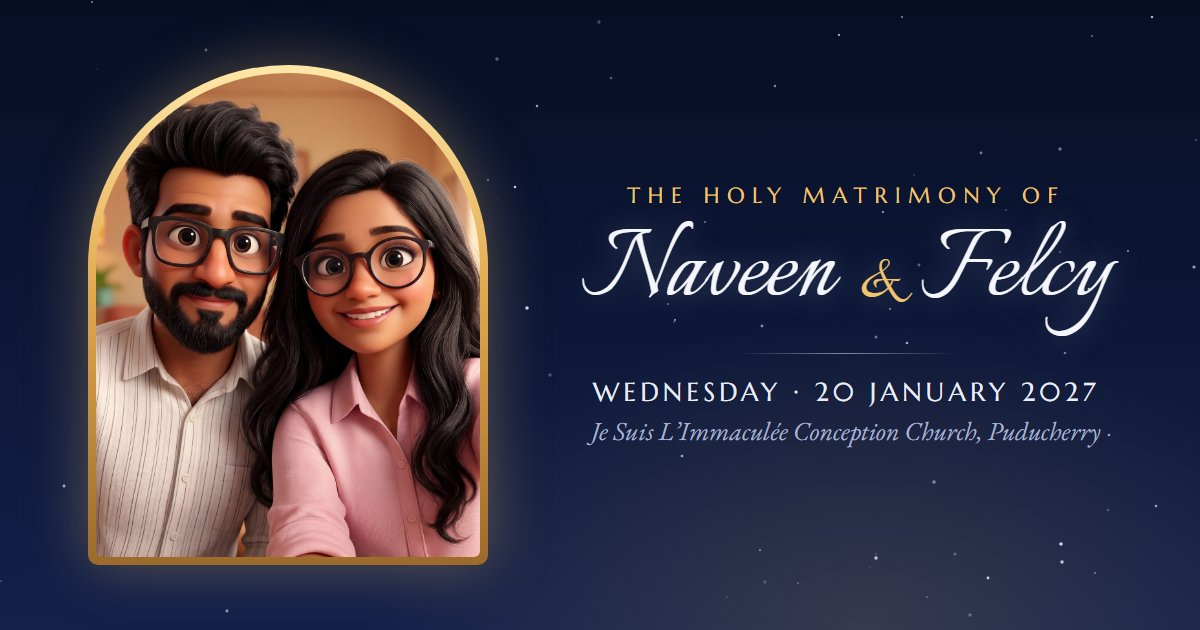
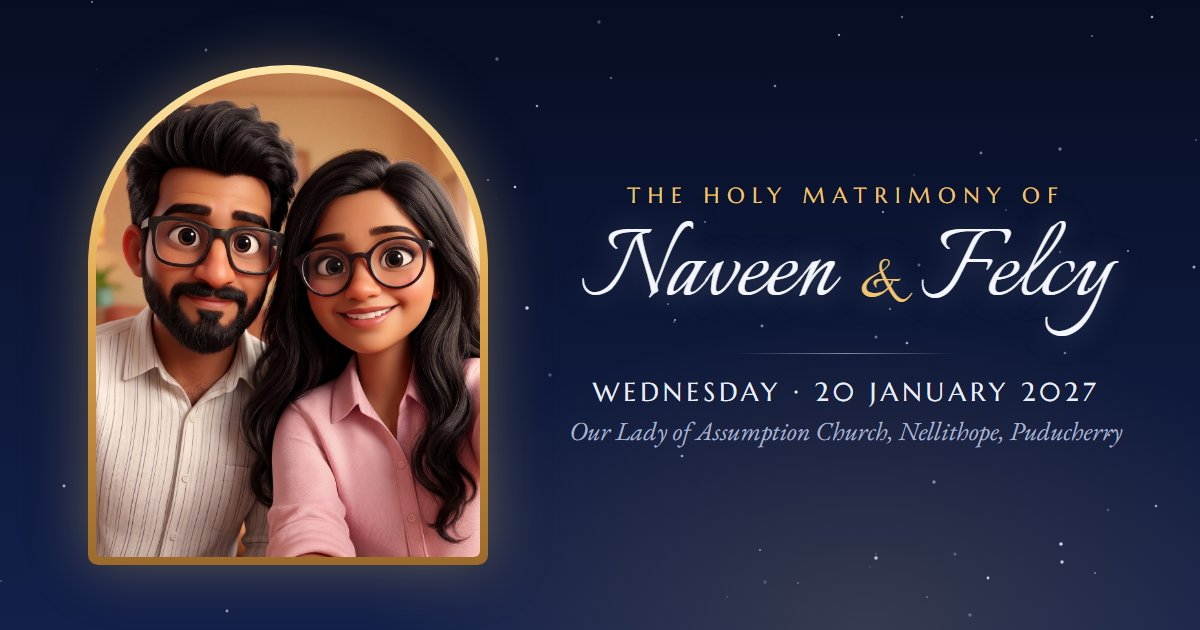
Spell out Saint in groom's family names; church is Our Lady of Assumption Church

Changed region(s): [[0.4625, 0.6635, 0.925, 0.7238]]

diff --git a/index.html b/index.html
@@ -5,12 +5,12 @@
 <meta name="viewport" content="width=device-width, initial-scale=1, viewport-fit=cover">
 <meta name="robots" content="noindex">
 <title>Naveen &amp; Felcy · Holy Matrimony</title>
-<meta name="description" content="The wedding of St. Hubert Naveen Gerald and Felcy Agnes Mary, Wednesday 20 January 2027, Puducherry.">
+<meta name="description" content="The wedding of Saint Hubert Naveen Gerald and Felcy Agnes Mary, Wednesday 20 January 2027, Puducherry.">
 <meta property="og:type" content="website">
 <meta property="og:title" content="Naveen &amp; Felcy · Holy Matrimony">
-<meta property="og:description" content="Wednesday, 20 January 2027, 4:00 PM · Je Suis L’Immaculée Conception Church, Nellithope, Puducherry. Tap to open your invitation.">
+<meta property="og:description" content="Wednesday, 20 January 2027, 4:00 PM · Our Lady of Assumption Church, Nellithope, Puducherry. Tap to open your invitation.">
 <meta property="og:url" content="https://aldoe21.github.io/naveen-felcy/">
-<meta property="og:image" content="https://aldoe21.github.io/naveen-felcy/og-image.jpg">
+<meta property="og:image" content="https://aldoe21.github.io/naveen-felcy/og-image.jpg?v=2">
 <meta property="og:image:width" content="1200">
 <meta property="og:image:height" content="630">
 <meta name="twitter:card" content="summary_large_image">
@@ -65,7 +65,7 @@ body { font-size: clamp(17px, 1rem + .3vw, 20px); }
   <div id="caption">
     <p class="cap-eyebrow">The Holy Matrimony of</p>
     <p class="cap-names"><span data-k="groomShort">Naveen</span> &amp; <span data-k="brideShort">Felcy</span></p>
-    <p class="cap-place"><span data-k="churchName">Je Suis L’Immaculée Conception Church</span>, <span data-k="churchPlace">Nellithope, Puducherry</span></p>
+    <p class="cap-place"><span data-k="churchName">Our Lady of Assumption Church</span>, <span data-k="churchPlace">Nellithope, Puducherry</span></p>
   </div>
   <button id="doors" class="doors" type="button" aria-label="Open the church doors"></button>
   <p id="hint">Tap the doors to enter</p>
@@ -85,7 +85,7 @@ body { font-size: clamp(17px, 1rem + .3vw, 20px); }
       <p class="verse rv" style="--d:.3s"><span data-k="verse"></span><cite data-k="verseRef"></cite></p>
       <p class="families rv" style="--d:.45s"><span data-k="groomFamily"></span> &amp; <span data-k="brideFamily"></span></p>
       <p class="request rv" style="--d:.55s">joyfully invite you to the Holy Matrimony of</p>
-      <h1 class="names rv" style="--d:.7s"><span data-k="groomFull">St. Hubert Naveen Gerald</span><span class="amp">&amp;</span><span data-k="bride">Felcy Agnes Mary</span></h1>
+      <h1 class="names rv" style="--d:.7s"><span data-k="groomFull">Saint Hubert Naveen Gerald</span><span class="amp">&amp;</span><span data-k="bride">Felcy Agnes Mary</span></h1>
       <p class="request rv" style="--d:.85s">to be solemnised at the Nuptial Holy Mass at <span data-k="churchName"></span>, <span data-k="churchPlace"></span></p>
       <p class="date rv" style="--d:1s"><span data-k="dateText"></span><span class="date-time" data-k="heroTime"></span></p>
       <div class="hero-ctas rv" style="--d:1.15s"><a class="btn" href="#celebrations">Save the Date</a><a class="btn btn-ghost" href="#rsvp">RSVP</a></div>
@@ -99,7 +99,7 @@ body { font-size: clamp(17px, 1rem + .3vw, 20px); }
         <article class="person rv">
           <div class="portrait"><div class="portrait-in" data-portrait="groom"><span class="pi" data-k="groomInitial">N</span></div></div>
           <p class="role">The Groom</p>
-          <h3 class="pname" data-k="groomFull">St. Hubert Naveen Gerald</h3>
+          <h3 class="pname" data-k="groomFull">Saint Hubert Naveen Gerald</h3>
           <p class="parents">Beloved son of <b data-k="groomParents"></b></p>
           <p class="fam" data-k="groomFamily"></p>
           <p class="sib"><span data-k="groomSiblingRole"></span> <b data-k="groomSibling"></b></p>

diff --git a/invite.js b/invite.js
@@ -4,12 +4,12 @@
 
 window.CONFIG = window.CONFIG || {
   groom: 'Naveen Gerald', groomShort: 'Naveen',
-  groomFull: 'St. Hubert Naveen Gerald',      // used only in the invitation wording at the top
+  groomFull: 'Saint Hubert Naveen Gerald',    // invitation names at the top and under his photo
   bride: 'Felcy Agnes Mary', brideShort: 'Felcy',
   initials: ['N', 'F'],                       // left door, right door
-  groomParents: 'Mr. St. Hubert Charles Saraphion & Mrs. Josephine',
+  groomParents: 'Mr. Saint Hubert Charles Saraphion & Mrs. Josephine',
   brideParents: 'Mr. Antony Kulandai Rajan & Mrs. Christine',
-  groomSibling: 'St. Hubert Marie Nishanth', groomSiblingRole: 'Brother of',
+  groomSibling: 'Saint Hubert Marie Nishanth', groomSiblingRole: 'Brother of',
   brideSibling: 'Francis Martin Aldoe', brideSiblingRole: 'Sister of',
   groomFamily: 'The House of Hubert Charles',
   brideFamily: 'The House of Antony Rajan',
@@ -27,7 +27,7 @@ window.CONFIG = window.CONFIG || {
       map: 'https://maps.app.goo.gl/bBqVibmzXv14oN6T7', ll: [11.9421441, 79.830922], icon: 'rings' },
     { key: 'wedding', title: 'Holy Matrimony', kicker: 'Nuptial Holy Mass',
       start: '2027-01-20T16:00:00+05:30', end: '2027-01-20T18:00:00+05:30', time: '4:00 – 6:00 PM', heroTime: '4:00 PM',
-      venue: 'Je Suis L’Immaculée Conception Church', place: 'Nellithope, Puducherry',
+      venue: 'Our Lady of Assumption Church', place: 'Nellithope, Puducherry',
       map: 'https://maps.app.goo.gl/LL6hFemdPkvHNiAm8', ll: [11.9302799, 79.8108388], icon: 'church' },
     { key: 'reception', title: 'Wedding Reception', kicker: 'Dinner & celebration',
       start: '2027-01-20T18:30:00+05:30', end: '2027-01-20T21:00:00+05:30', time: '6:30 – 9:00 PM',
@@ -113,7 +113,7 @@ window.CONFIG = window.CONFIG || {
     return `<path d="M${x},${base} C${x - w},${base - h * 0.3} ${x - w * 0.6},${base - h * 0.85} ${x},${base - h} C${x + w * 0.6},${base - h * 0.85} ${x + w},${base - h * 0.3} ${x},${base} Z" fill="${fill}"/>`;
   };
 
-  /* Our Lady of the Immaculate Conception: white figure, blue sash, crown of twelve stars, crescent at her feet */
+  /* Our Lady, as the woman of Revelation 12 (the Assumption feast reading): white figure, blue sash, crown of twelve stars, crescent at her feet */
   const mary = (x, y, h) => {
     const k = h / 30;
     let stars = '';
